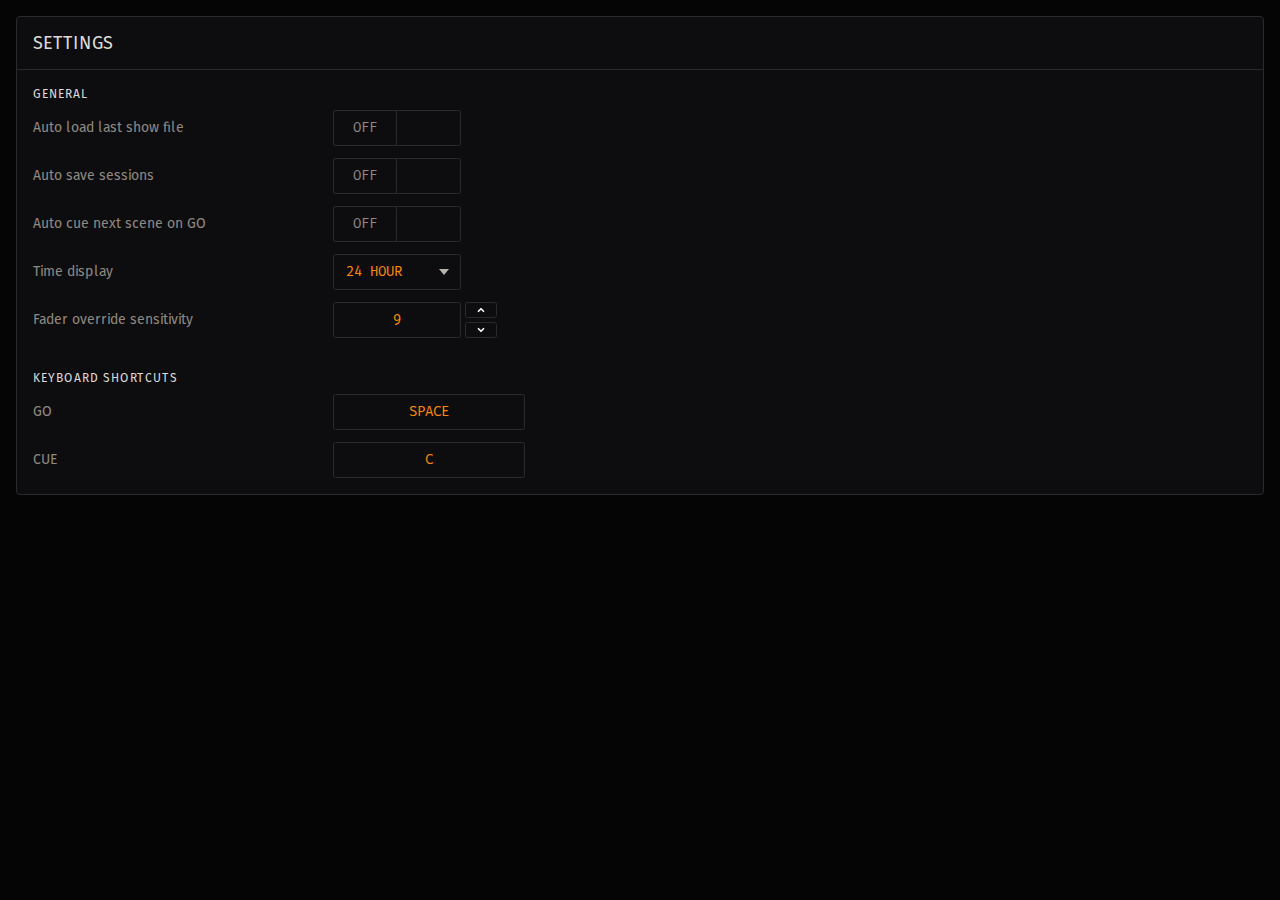
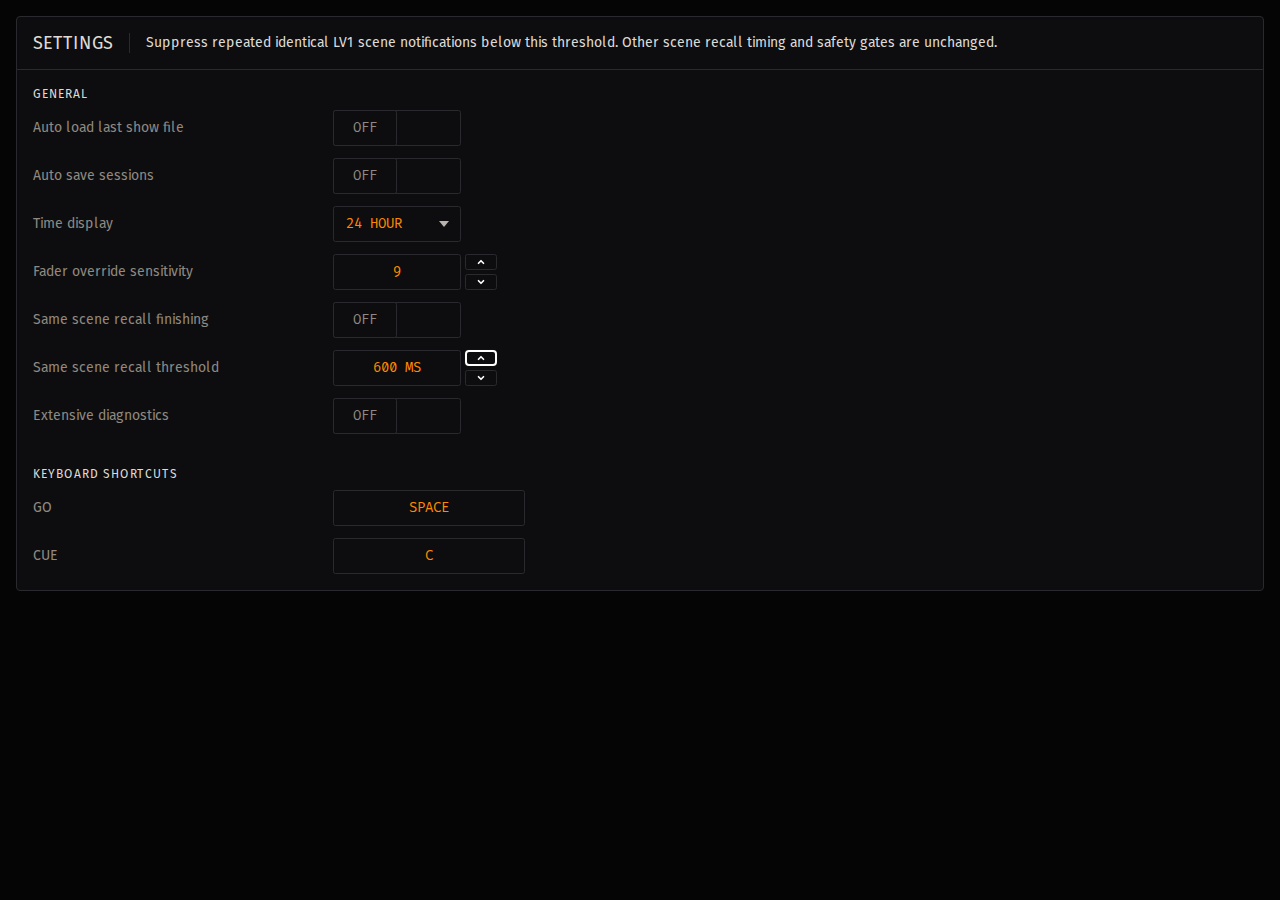
docs: explain same-scene recall settings

diff --git a/site/docs/settings.md b/site/docs/settings.md
@@ -1,10 +1,18 @@
 # Settings
 
-Use **Settings** to change the shortcuts and diagnostic detail available in v2. If a setting cannot be saved, the screen restores the last confirmed value and shows an error.
+Use **Settings** to change same-scene recall behavior, shortcuts, and diagnostic detail available in v2. If a setting cannot be saved, the screen restores the last confirmed value and shows an error.
 
 ![The Settings screen.](assets/screenshots/settings.png)
 
 ## Active in v2
+
+### Same-scene recall
+
+**Same scene recall finishing** is on by default. When it is on, recalling an app-managed scene again while that exact scene still owns active fade targets completes those targets after LV1's post-recall readiness check. When it is off, matching fades continue from their current values over the full configured scene duration instead of completing immediately.
+
+**Same scene recall threshold** defaults to `500 ms` and accepts values from `0 ms` through `5000 ms` in `100 ms` steps. Repeated identical LV1 scene notifications below the threshold are ignored. A notification at the threshold is eligible for normal recall validation. The threshold does not change connection arming, scene-list-edit suppression, exact scene matching, SAFE, or disconnect behavior.
+
+Use these settings with **Extensive diagnostics** when investigating unexpected immediate fade completion. If disabling finishing removes the jump, same-scene finishing was selected. Increase the threshold to test whether delayed duplicate LV1 scene notifications are being accepted. Rehearse any changed value before show use.
 
 ### Extensive diagnostics
 

diff --git a/docs/architecture.md b/docs/architecture.md
@@ -328,7 +328,9 @@ waiting. Same-scene finishing behavior is tracked separately in #42.
 
 #### Scene-Owned Repeated Recall
 
-Every timed active target retains the exact LV1 scene index and scene name that created it. After normal recall validation, recalling that exact scene while it owns active targets rewrites only those targets for completion on the next eligible scheduler tick. The repeated recall resets the connection-wide post-recall readiness barrier; no final parameter write occurs until two qualifying same-generation pings release the barrier. The normal scheduler then sends each stored target value exactly and removes the completed target. Targets owned by other scenes remain active and resume after the shared readiness pause.
+Every timed active target retains the exact LV1 scene index and scene name that created it. The application-wide same-scene recall threshold controls only suppression of repeated identical scene observations and defaults to 500 ms. The 25 ms settle delay, connection-generation arming window, scene-list-edit suppression, and fresh-state timeout remain independent.
+
+After normal recall validation, enabled same-scene finishing rewrites active targets owned by the exact scene for completion after readiness. When finishing is disabled, matching target keys are replaced with full-duration timelines from their current interpolated or live values, using the same overlap path as a different-scene recall. Both paths reset and obey the connection-wide two-ping readiness barrier.
 
 ### 13.3 `scenes`
 
